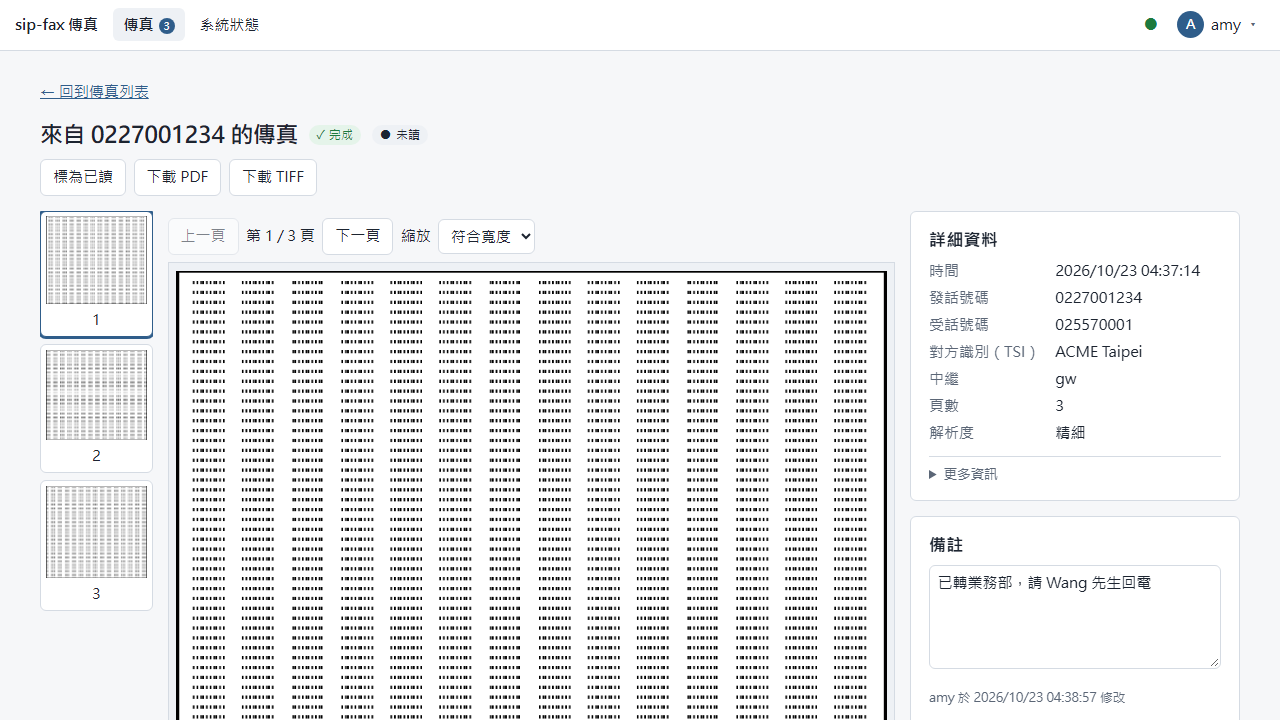
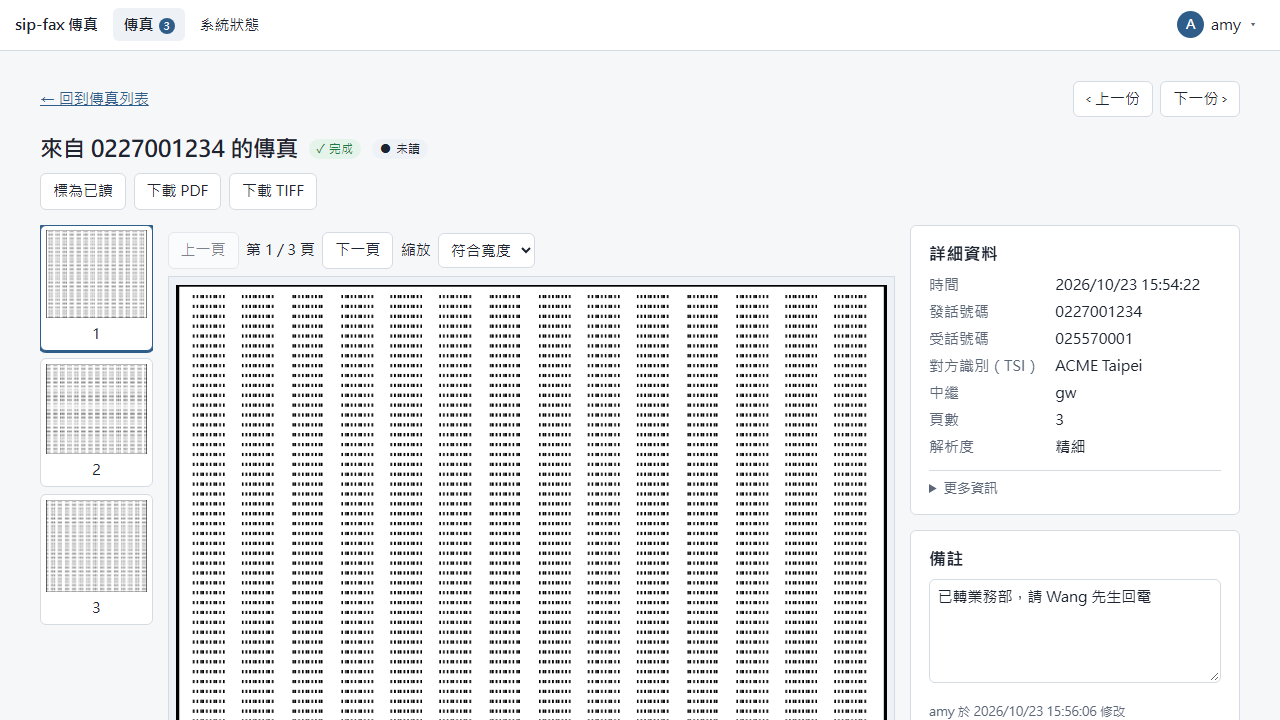
web-ui: sizes in GB and TB; manual screenshots for the second pass; sip-core E04 waits for the dialogs to leave
- formatBytes went no further than MB, so the disk read "957531.1 MB"
- E04 failed once on CI: a dialog leaves the table when its task ends, a moment after bye()
  returned; the test now allows up to a second, as it already does for the task count

diff --git a/web-ui/src/lib/i18n.svelte.ts b/web-ui/src/lib/i18n.svelte.ts
@@ -129,12 +129,18 @@ export function formatWhen(
   return `${date} ${hm}`;
 }
 
-/** `1.2 MB` */
+/** `1.2 MB`, up to TB (a disk's size) */
 export function formatBytes(n: number | null | undefined): string {
   if (n === null || n === undefined) return '';
   if (n < 1024) return `${n} B`;
-  if (n < 1024 * 1024) return `${(n / 1024).toFixed(1)} KB`;
-  return `${(n / 1024 / 1024).toFixed(1)} MB`;
+  const units = ['KB', 'MB', 'GB', 'TB'];
+  let v = n / 1024;
+  let i = 0;
+  while (v >= 1024 && i < units.length - 1) {
+    v /= 1024;
+    i++;
+  }
+  return `${v.toFixed(1)} ${units[i]}`;
 }
 
 /** `1:05:03` / `5:03` */

diff --git a/web-ui/src/lib/i18n.test.ts b/web-ui/src/lib/i18n.test.ts
@@ -52,6 +52,9 @@ describe('formats', () => {
     expect(formatBytes(512)).toBe('512 B');
     expect(formatBytes(2048)).toBe('2.0 KB');
     expect(formatBytes(3 * 1024 * 1024)).toBe('3.0 MB');
+    expect(formatBytes(957531.1 * 1024 * 1024)).toBe('935.1 GB');
+    expect(formatBytes(2.5 * 1024 ** 4)).toBe('2.5 TB');
+    expect(formatBytes(3 * 1024 ** 5)).toBe('3072.0 TB');
     expect(formatDuration(null)).toBe('');
     expect(formatDuration(65)).toBe('1:05');
     expect(formatDuration(3723)).toBe('1:02:03');

diff --git a/crates/sip-core/tests/endpoint.rs b/crates/sip-core/tests/endpoint.rs
@@ -400,6 +400,14 @@ async fn e04_fifty_concurrent_calls_do_not_mix_up_and_leave_no_tasks_behind() {
         served, got,
         "the server saw exactly the calls the clients made"
     );
+    // a dialog leaves the table when its task ends, a moment after bye() has returned the 200:
+    // allow it that moment (it once read 1 on a loaded CI runner)
+    for _ in 0..100 {
+        if uac.dialog_count() == 0 && uas.dialog_count() == 0 {
+            break;
+        }
+        tokio::time::sleep(Duration::from_millis(10)).await;
+    }
     assert_eq!(uac.dialog_count(), 0);
     assert_eq!(uas.dialog_count(), 0);
     let mid = handle.metrics().num_alive_tasks();

diff --git a/docs/TODO.md b/docs/TODO.md
@@ -192,6 +192,8 @@
       - [x] ⑬ 表單欄位寬度一致（28rem）
       - [x] ⑯ 系統狀態的今日概況與磁碟空間（`FaxStore::count_since`、`count_deliveries`；`GET /faxes/counts?since=`；`/status` 的 `storage`，rustix `statvfs`）U33
       - [x] ⑰ 登入頁：拿掉「請登入」、顯示密碼、語言移到下方 U27
+      - [x] 手冊截圖重跑（登入頁、系統狀態的今日概況與磁碟、內容頁的上一份／下一份）；截圖抓到磁碟顯示「957531.1 MB」：`formatBytes` 補上 GB、TB
+      - [x] `sip-core` E04 偶發失敗（CI run 39917590693：`dialog_count()` 讀到 1）：dialog 在 `bye()` 回 200 之後才從表中移除，測試改為最多等 1 秒（與同一測試的 task 數檢查相同做法）
       - [x] v0.4.1-alpha 的 release run 39915367748 中 U22 偶發失敗：帳號選單的「點外面關閉」要等 `toggle` 事件才掛上監聽器，打開後立刻點外面會漏掉。改為登入期間一直掛著、直接看 `details.open`。（那次 release 重跑失敗的 job 發佈，0.4.1 內仍有此問題，實際操作幾乎碰不到）
     - ④ 手機與窄螢幕版面：2026-10-23 使用者決定不做（介面以桌機瀏覽器為主）
     - [x] 手冊截圖（`docs/manual/images/`）重跑，座席與 IT 手冊內文同步（帳號選單、未讀數、整列可點、資訊欄、⟲ 標記、新增帳號按鈕）
